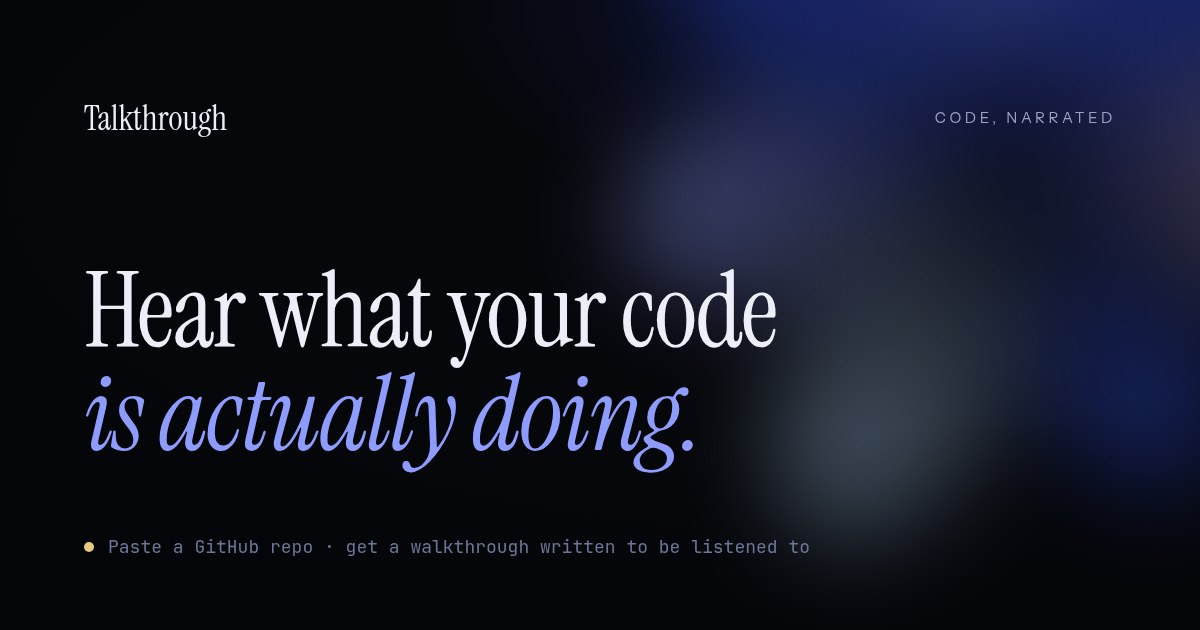
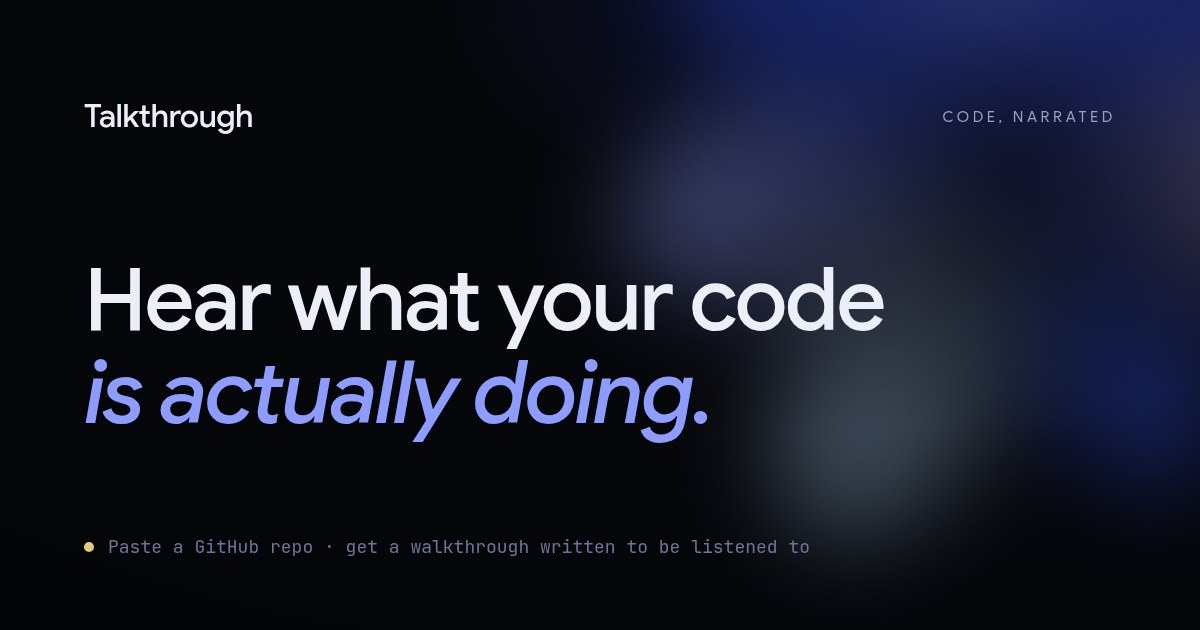
Switch headings and interface to Google Sans
The condensed display serif looked thin and oddly proportioned on the
dark background. Google Sans has open proportions and steady strokes
that hold up there; the long-form walkthrough keeps a reading serif at a
slightly heavier weight. Social preview re-rendered to match, and the
result actions wrap at a wider breakpoint for the wider face.

Claude-Session: https://claude.ai/code/session_01TRAP4niunPnWrmMEx23zVh

Changed region(s): [[0.0617, 0.4222, 0.74, 0.754], [0.0617, 0.1508, 0.2158, 0.2111], [0.7708, 0.181, 0.925, 0.2111]]

diff --git a/components/talkthrough/result-view.tsx b/components/talkthrough/result-view.tsx
@@ -33,7 +33,7 @@ export function ResultView({ walkthrough: w, onRetryMissing, className }: Props)
     <section aria-labelledby="result-title" className={cn("panel overflow-clip", className)}>
       <header className="px-5 pt-6 sm:px-8 sm:pt-8">
         <p className="label-caps text-gold/80">Your walkthrough</p>
-        <h2 id="result-title" className="mt-3 text-balance font-serif text-[2rem] leading-[1.08] text-soft-white sm:text-[2.5rem]">
+        <h2 id="result-title" className="mt-3 text-balance font-display text-[1.875rem] leading-[1.12] font-medium tracking-[-0.02em] text-soft-white sm:text-[2.25rem]">
           {w.title}
         </h2>
         <p className="mt-3 font-mono text-[0.6875rem] leading-relaxed text-faint">
@@ -44,15 +44,15 @@ export function ResultView({ walkthrough: w, onRetryMissing, className }: Props)
 
       <div className="sticky top-0 z-10 mt-5 border-y border-border bg-[rgb(9_11_20/0.82)] px-5 py-3 backdrop-blur-xl sm:px-8">
         <div className="flex flex-wrap items-center gap-2">
-          <Button onClick={copy} className="basis-full min-[380px]:flex-1 min-[380px]:basis-auto sm:flex-none sm:px-7" aria-live="polite">
+          <Button onClick={copy} className="basis-full min-[440px]:flex-1 min-[440px]:basis-auto sm:flex-none sm:px-7" aria-live="polite">
             {copied ? <Check /> : <Copy />}
             {copied ? "Copied" : "Copy script"}
           </Button>
-          <Button variant="outline" className="flex-1 px-4 min-[380px]:flex-none" onClick={() => download(`${fileSlug(w)}.txt`, script, "text/plain")} aria-label="Download as a text file">
+          <Button variant="outline" className="flex-1 px-4 min-[440px]:flex-none" onClick={() => download(`${fileSlug(w)}.txt`, script, "text/plain")} aria-label="Download as a text file">
             <Download />
             .txt
           </Button>
-          <Button variant="outline" className="flex-1 px-4 min-[380px]:flex-none" onClick={() => download(`${fileSlug(w)}.md`, markdown, "text/markdown")} aria-label="Download as Markdown">
+          <Button variant="outline" className="flex-1 px-4 min-[440px]:flex-none" onClick={() => download(`${fileSlug(w)}.md`, markdown, "text/markdown")} aria-label="Download as Markdown">
             <Download />
             .md
           </Button>
@@ -100,7 +100,7 @@ export function ResultView({ walkthrough: w, onRetryMissing, className }: Props)
         <Contents w={w} />
 
         {view === "script" ? (
-          <pre className="mt-8 font-reading text-[1.0625rem] leading-[1.75] whitespace-pre-wrap text-soft-white/85">{script}</pre>
+          <pre className="mt-8 font-reading text-[1.0625rem] leading-[1.75] font-[450] whitespace-pre-wrap text-soft-white/88">{script}</pre>
         ) : (
           <article className="mx-auto mt-8 max-w-[38rem]">
             <Part id="part-overview" eyebrow="Introduction" title="The big picture" body={w.overview} />
@@ -111,7 +111,7 @@ export function ResultView({ walkthrough: w, onRetryMissing, className }: Props)
                     <span className="h-px flex-1 bg-gradient-to-r from-transparent to-border" />
                     <p className="text-center">
                       <span className="label-caps block text-gold/75">Chapter {numberWords(c + 1)}</span>
-                      <span className="mt-1 block font-serif text-[1.375rem] text-soft-white/90 italic">{chapter.title}</span>
+                      <span className="mt-1 block font-display text-[1.25rem] text-soft-white/90 italic">{chapter.title}</span>
                     </p>
                     <span className="h-px flex-1 bg-gradient-to-l from-transparent to-border" />
                   </div>
@@ -165,7 +165,7 @@ function Part({ id, eyebrow, title, paths, body }: { id: string; eyebrow: string
   return (
     <section id={id} className="scroll-mt-24 border-t border-border pt-8 pb-4 first:border-t-0 first:pt-0">
       <p className="label-caps">{eyebrow}</p>
-      <h3 className="mt-2 text-balance font-serif text-[1.75rem] leading-tight text-soft-white">{title}</h3>
+      <h3 className="mt-2 text-balance font-display text-[1.5rem] leading-[1.2] font-medium tracking-[-0.015em] text-soft-white">{title}</h3>
       {paths && paths.length > 0 && (
         <p className="mt-2 font-mono text-[0.6875rem] leading-relaxed break-words text-periwinkle/70">
           {paths.length > 6 ? `${paths.slice(0, 6).join(" · ")} · +${paths.length - 6} more` : paths.join(" · ")}
@@ -173,7 +173,7 @@ function Part({ id, eyebrow, title, paths, body }: { id: string; eyebrow: string
       )}
       <div className="mt-4 space-y-4">
         {body.split(/\n{2,}/).map((p, i) => (
-          <p key={i} className="font-reading text-[1.0625rem] leading-[1.75] text-pretty text-soft-white/85">
+          <p key={i} className="font-reading text-[1.0625rem] leading-[1.75] font-[450] text-pretty text-soft-white/88">
             {p}
           </p>
         ))}

diff --git a/app/layout.tsx b/app/layout.tsx
@@ -1,19 +1,14 @@
 import type { Metadata, Viewport } from "next";
-import { Instrument_Sans, Instrument_Serif, JetBrains_Mono, Newsreader } from "next/font/google";
+import { Google_Sans, JetBrains_Mono, Newsreader } from "next/font/google";
 
 import { Backdrop } from "@/components/talkthrough/backdrop";
 import "./globals.css";
 
-const serif = Instrument_Serif({
-  variable: "--font-instrument-serif",
+// Google's own typeface: open proportions and steady strokes that hold up on a dark background.
+const sans = Google_Sans({
+  variable: "--font-google-sans",
   subsets: ["latin"],
-  weight: "400",
   style: ["normal", "italic"],
-});
-
-const sans = Instrument_Sans({
-  variable: "--font-instrument-sans",
-  subsets: ["latin"],
 });
 
 const reading = Newsreader({
@@ -51,7 +46,7 @@ export const viewport: Viewport = {
 
 export default function RootLayout({ children }: Readonly<{ children: React.ReactNode }>) {
   return (
-    <html lang="en" className={`${serif.variable} ${sans.variable} ${reading.variable} ${mono.variable}`}>
+    <html lang="en" className={`${sans.variable} ${reading.variable} ${mono.variable}`}>
       <body>
         <Backdrop />
         {children}

diff --git a/components/talkthrough/progress-view.tsx b/components/talkthrough/progress-view.tsx
@@ -110,7 +110,7 @@ export function ProgressView({ run, className }: { run: RunState; className?: st
       {latest && run.phase === "explaining" && (
         <figure className="mt-6 border-l border-periwinkle/25 pl-4">
           <figcaption className="label-caps">Just written · {latest.title}</figcaption>
-          <blockquote className="mt-2 line-clamp-3 font-reading text-[0.9375rem] leading-relaxed text-soft-white/75 italic">
+          <blockquote className="mt-2 line-clamp-3 font-reading text-[0.9375rem] leading-relaxed font-[450] text-soft-white/80 italic">
             {latest.body}
           </blockquote>
         </figure>

diff --git a/app/globals.css b/app/globals.css
@@ -81,8 +81,8 @@
   --radius-lg: var(--radius);
   --radius-xl: calc(var(--radius) + 6px);
 
-  --font-sans: var(--font-instrument-sans), ui-sans-serif, system-ui, sans-serif;
-  --font-serif: var(--font-instrument-serif), ui-serif, Georgia, serif;
+  --font-sans: var(--font-google-sans), ui-sans-serif, system-ui, sans-serif;
+  --font-display: var(--font-google-sans), ui-sans-serif, system-ui, sans-serif;
   --font-reading: var(--font-newsreader), ui-serif, Georgia, serif;
   --font-mono: var(--font-jetbrains-mono), ui-monospace, SFMono-Regular, Menlo, monospace;
 
